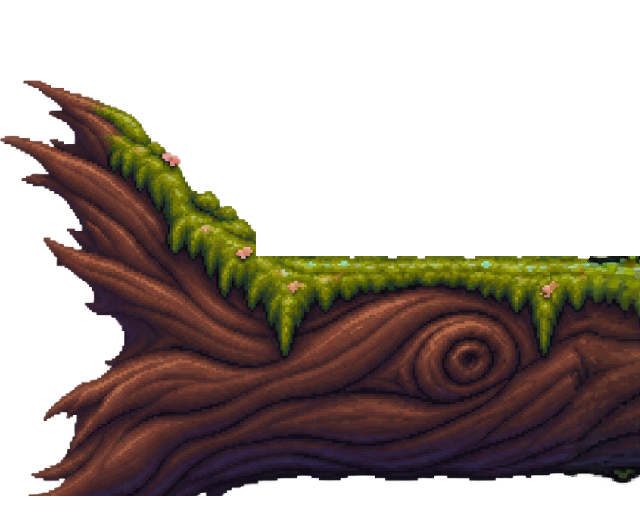
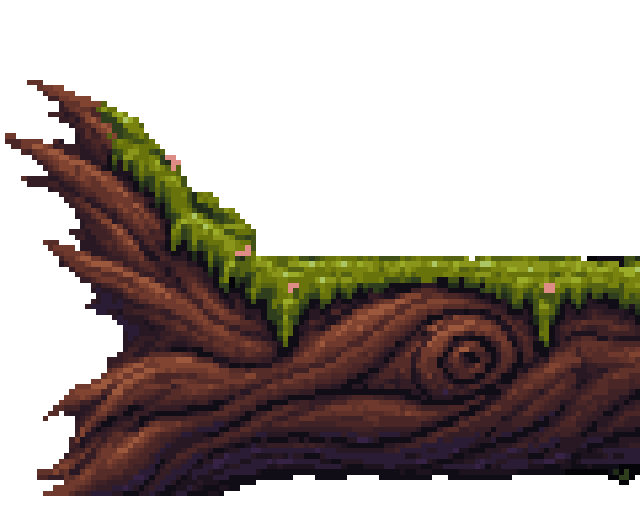
Troncs et branches du grand arbre en pixel art (6 pieces, meme densite que les tuiles, 24 couleurs, raccords gardes) ; BrancheKit les compose sans lissage ; pixelfix.js : option --tileable pour files ; CLAUDE.md a jour

diff --git a/src/data/pixel_fixed.js b/src/data/pixel_fixed.js
@@ -3,6 +3,12 @@
 // BootScene les affiche sans lissage (NEAREST) ; import_codex_assets.py ne
 // les réécrit pas. `f` : px de l'image = 1 pixel dessiné ; `set` : le lot.
 const PIXEL_FIXED = {
+  "assets/decors/elements/branche_base.png": {"f":5.33,"set":"files:assets/decors/elements/branche_milieu.png"},
+  "assets/decors/elements/branche_bout.png": {"f":5.33,"set":"files:assets/decors/elements/branche_milieu.png"},
+  "assets/decors/elements/branche_fourche.png": {"f":5.33,"set":"files:assets/decors/elements/branche_milieu.png"},
+  "assets/decors/elements/branche_milieu.png": {"f":5.33,"set":"files:assets/decors/elements/branche_milieu.png"},
+  "assets/decors/elements/tronc_base.png": {"f":5.33,"set":"files:assets/decors/elements/branche_milieu.png"},
+  "assets/decors/elements/tronc_segment.png": {"f":5.33,"set":"files:assets/decors/elements/branche_milieu.png"},
   "assets/decors/tuiles_corrompues_frames/coin.png": {"f":5.33,"set":"tiles:tuiles_corrompues"},
   "assets/decors/tuiles_corrompues_frames/dirt_angle.png": {"f":5.33,"set":"tiles:tuiles_corrompues"},
   "assets/decors/tuiles_corrompues_frames/dirt_b.png": {"f":5.33,"set":"tiles:tuiles_corrompues"},

diff --git a/tools/pixelfix.js b/tools/pixelfix.js
@@ -58,6 +58,8 @@ const SCREEN_PX_PER_ART_PX = 64 / 24;
 // Une case de tuile des biomes : 256 px dans l'image, 64 à l'écran.
 const TILE_SOURCE_PX = 256;
 let tilePx = 24;
+// `files --tileable` : pièces qui se répètent ou se raccordent (branches, troncs), grille calée sur l'image.
+let filesTileable = false;
 
 let sharp;
 let PC;
@@ -97,6 +99,7 @@ function parseArgs(argv) {
     else if (t === '--dry') a.o.dry = true;
     else if (t === '--variant') a.o.variant = true;
     else if (t === '--tile-px') tilePx = Math.round(num(next(), t));
+    else if (t === '--tileable') filesTileable = true;
     else if (t.startsWith('--')) throw new Error(`option inconnue : ${t}`);
     else a.inputs.push(t);
   }
@@ -231,7 +234,7 @@ function resolveSets(cmd, inputs, manifests) {
       walkPngs(abs, files);
     }
     if (!files.length) throw new Error('aucune image PNG trouvée');
-    return [{ name: `files:${relOf(path.resolve(inputs[0]))}`, files, scale: null }];
+    return [{ name: `files:${relOf(path.resolve(inputs[0]))}`, files, scale: null, tileable: filesTileable }];
   }
   throw new Error(`commande inconnue : ${cmd}`);
 }

diff --git a/src/utils/BrancheKit.js b/src/utils/BrancheKit.js
@@ -47,9 +47,14 @@ function brancheCanvas(w, h) {
   return c;
 }
 
+// Pièces refaites en pixel art (tools/pixelfix.js, registre PIXEL_FIXED) : on les
+// réduit SANS lissage, sinon leurs blocs de pixels redeviennent flous une fois
+// ramenés à l'échelle du monde. Art IA d'origine ou dessin par code : lissé.
+const BRANCHE_PIXEL_ART = typeof PIXEL_FIXED !== 'undefined' && !!PIXEL_FIXED['assets/decors/elements/branche_milieu.png'];
+
 function brancheCtx(c) {
   const ctx = c.getContext('2d');
-  ctx.imageSmoothingEnabled = true;
+  ctx.imageSmoothingEnabled = !BRANCHE_PIXEL_ART;
   ctx.imageSmoothingQuality = 'high';
   return ctx;
 }

diff --git a/CLAUDE.md b/CLAUDE.md
@@ -103,6 +103,11 @@ ligne de marche du jeu par défaut. Hauteur de marche : `448 + GROUND_STAND_SINK
   manquait de détails pour l'utilisateur), 20 couleurs, raccords gardés (mode tuile) :
   `node tools/pixelfix.js tiles tuiles_ecorce tuiles_flottantes tuiles_corrompues --colors 20 --tile-px 48`.
   Comparaison 24/32/48/64 : `docs/production/apercus/tuiles_24_32_48_64.png`.
+  **Troncs et branches du grand arbre** (6 pièces de `assets/decors/elements/` : branche_milieu,
+  _base, _bout, _fourche, tronc_segment, tronc_base) refaits le 2026-11-11, même densité que
+  les tuiles (5,33 px par pixel), 24 couleurs, mode `--tileable` (pièces qui se raccordent) ;
+  BrancheKit les compose sans lissage quand elles sont dans le registre :
+  `node tools/pixelfix.js files <les 6 png> --tileable --factor 5.33 --colors 24`.
   Référence : `node tools/pixelfix.js agarica --height 92`. Les autres personnages se
   calent sur cette densité. Ne refaire d'autres images qu'avec l'accord de l'utilisateur.
 
